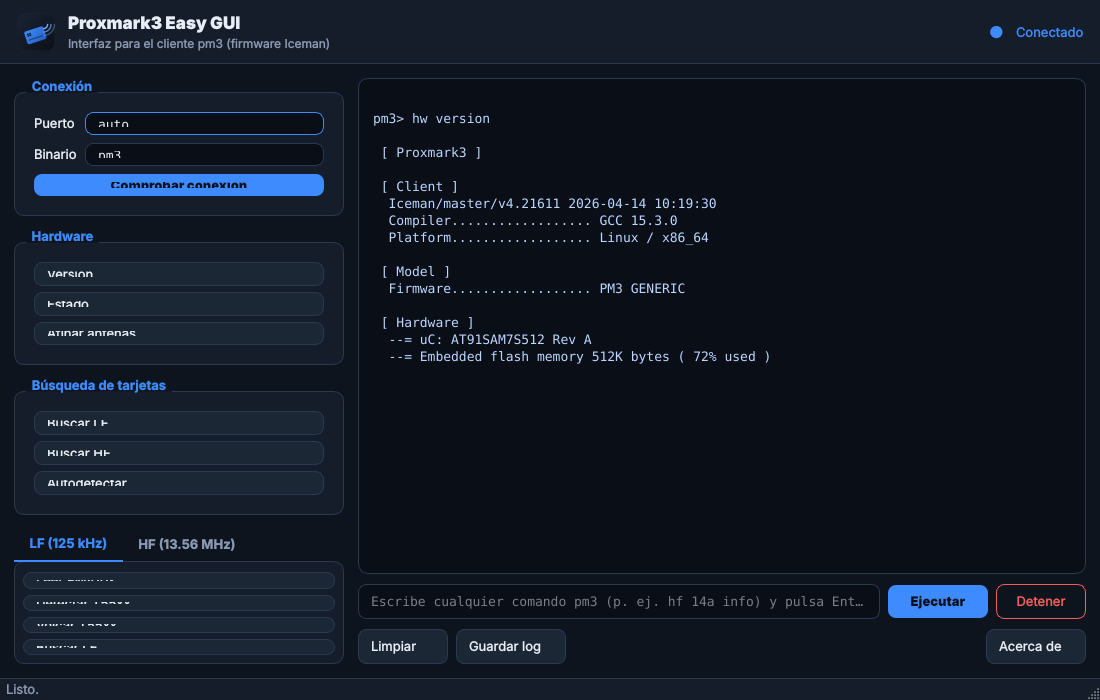
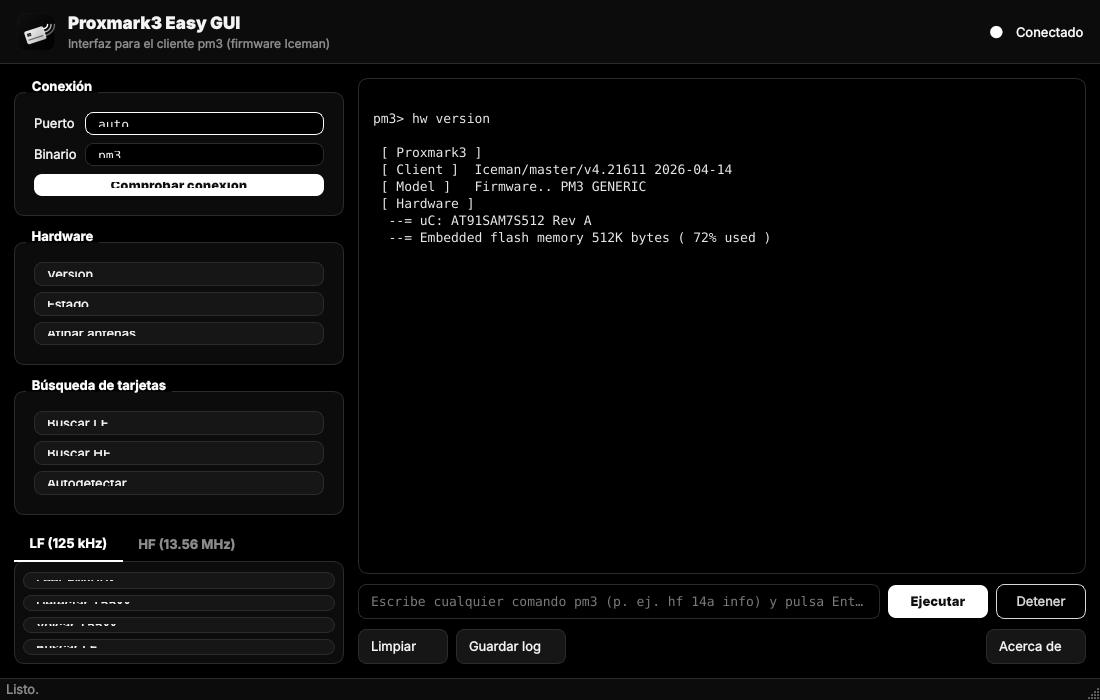
Tema monocromo: blanco y grises sobre negro
Unifica el estilo de las apps a una paleta monocroma (fondo negro puro,
texto y acentos en blanco/grises) para que combine con escritorios de
alto contraste. Icono y capturas actualizados.

diff --git a/pm3gui/theme.py b/pm3gui/theme.py
@@ -1,19 +1,19 @@
 """Hoja de estilo (QSS) para un aspecto oscuro y limpio."""
 
 # Paleta (azul como color principal; el resto armoniza con él)
-BG = "#0e141d"          # fondo general (azul muy oscuro)
-PANEL = "#151d2a"       # paneles
-PANEL_2 = "#1c2736"     # elementos elevados
-BORDER = "#2a3850"
-TEXT = "#e8eef7"
-MUTED = "#8a99b3"
-ACCENT = "#3d8bfd"      # azul principal
-ACCENT_DK = "#2f72d8"
-CONSOLE_BG = "#0a0f17"
-CONSOLE_TEXT = "#bcd6ff"  # azul claro para la consola
-OK = "#3d8bfd"          # "conectado" en el azul principal
-BAD = "#ef5f5f"         # error (rojo cálido que combina con el azul)
-WARN = "#f0a63a"        # aviso (ámbar)
+BG = "#000000"          # fondo general (azul muy oscuro)
+PANEL = "#0c0c0c"       # paneles
+PANEL_2 = "#161616"     # elementos elevados
+BORDER = "#2b2b2b"
+TEXT = "#f4f4f4"
+MUTED = "#8c8c8c"
+ACCENT = "#ffffff"      # azul principal
+ACCENT_DK = "#cccccc"
+CONSOLE_BG = "#000000"
+CONSOLE_TEXT = "#e8e8e8"  # azul claro para la consola
+OK = "#ffffff"          # "conectado" en el azul principal
+BAD = "#d7d7d7"         # error (rojo cálido que combina con el azul)
+WARN = "#a8a8a8"        # aviso (ámbar)
 
 STYLESHEET = f"""
 * {{
@@ -68,10 +68,10 @@ QPushButton {{
 }}
 QPushButton:hover {{
     border-color: {ACCENT};
-    background: #233041;
+    background: #2e2e2e;
 }}
 QPushButton:pressed {{
-    background: #2a3a4d;
+    background: #373737;
 }}
 QPushButton:disabled {{
     color: {MUTED};
@@ -82,13 +82,13 @@ QPushButton:disabled {{
 /* Botón primario (Ejecutar) */
 QPushButton#primary {{
     background: {ACCENT};
-    color: #06101f;
+    color: #0f0f0f;
     font-weight: 700;
     border: none;
     text-align: center;
 }}
 QPushButton#primary:hover {{ background: {ACCENT_DK}; }}
-QPushButton#primary:disabled {{ background: #26374f; color: #71839e; }}
+QPushButton#primary:disabled {{ background: #353535; color: #818181; }}
 
 QPushButton#danger {{
     background: transparent;
@@ -96,7 +96,7 @@ QPushButton#danger {{
     color: {BAD};
     text-align: center;
 }}
-QPushButton#danger:hover {{ background: rgba(239,83,80,0.12); }}
+QPushButton#danger:hover {{ background: rgba(129, 129, 129,0.12); }}
 
 /* Consola */
 QPlainTextEdit#console {{
